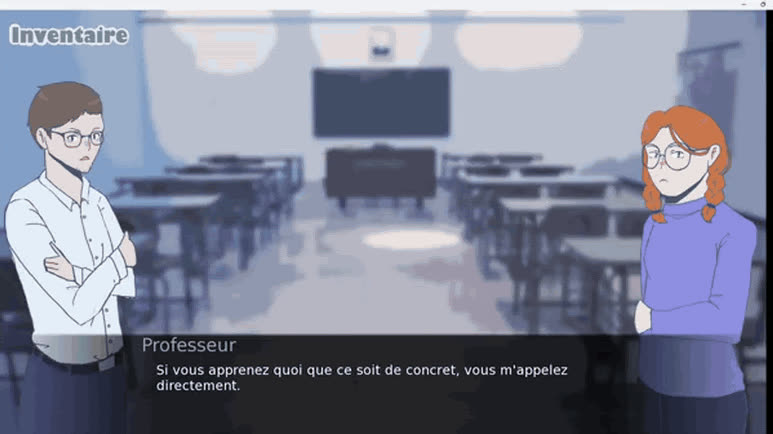
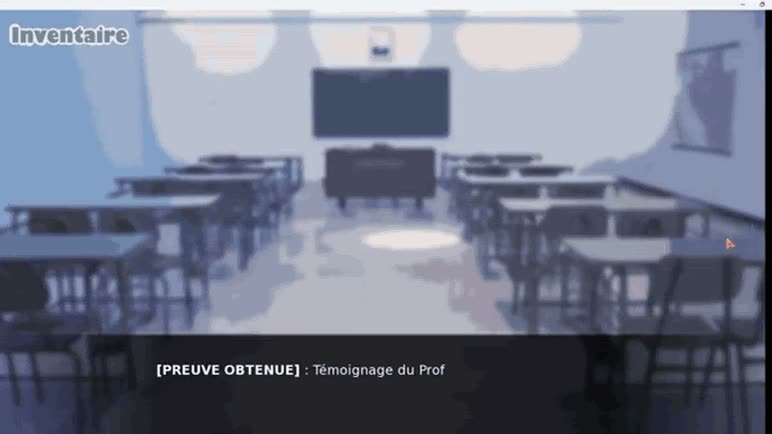
Cartes lisibles, boutons alignés, aperçu Push Push, état appuyé, accessibilité

Changed region(s): [[0.8083, 0.2396, 0.9948, 1.0], [0.0, 0.1797, 0.3109, 0.9885], [0.1865, 0.8387, 0.7461, 0.8986]]

diff --git a/index.html b/index.html
@@ -156,6 +156,7 @@ section[id], .dossier { scroll-margin-top: 72px; }
   cursor: pointer;
 }
 .btn:hover, .btn:focus-visible { transform: rotate(-3deg) scale(1.05); background: var(--red); color: var(--paper); }
+.btn:active { transform: rotate(-3deg) scale(.96); transition-duration: .05s; }
 .btn--red { --b: var(--red); --t: var(--paper); }
 .btn--red:hover, .btn--red:focus-visible { background: var(--paper); color: var(--ink); }
 .btn--ink { --b: var(--ink); --t: var(--paper); }
@@ -481,7 +482,7 @@ section[id], .dossier { scroll-margin-top: 72px; }
 .target .body { padding: .9rem 1.1rem 1.2rem; display: flex; flex-direction: column; gap: .3rem; }
 .target .body h3 { font-family: var(--display); font-size: 1.9rem; text-transform: uppercase; line-height: 1; }
 .target .body .eyebrow { color: var(--red-text); }
-.target .body .go { font-weight: 800; text-transform: uppercase; letter-spacing: .1em; font-size: .82rem; white-space: nowrap; color: var(--paper-dim); }
+.target .body .go { font-weight: 800; text-transform: uppercase; letter-spacing: .1em; font-size: .82rem; color: var(--paper-dim); }
 .target:hover .go, .target:focus-visible .go { color: var(--paper); }
 
 /* project dossier */
@@ -608,8 +609,9 @@ section[id], .dossier { scroll-margin-top: 72px; }
 .dialog p { color: var(--paper-dim); font-size: 1.02rem; }
 
 .links { display: flex; flex-wrap: wrap; gap: 12px; }
-/* Stay on the right even when a long title pushes the buttons to their own line. */
-.dossier-head .links { margin-left: auto; justify-content: flex-end; }
+/* the buttons always sit under the title, in the same place for every project */
+.dossier-head { flex-direction: column; align-items: flex-start; justify-content: flex-start; }
+.dossier-head .links { margin-left: 0; justify-content: flex-start; }
 
 .role-wrap { margin-top: clamp(26px, 4vw, 40px); }
 .role-title {
@@ -726,8 +728,8 @@ section[id], .dossier { scroll-margin-top: 72px; }
   overflow: hidden;
   margin-top: clamp(22px, 3.5vw, 32px);
   cursor: pointer;
-  -webkit-mask-image: linear-gradient(to bottom, rgba(0, 0, 0, .7) 20%, transparent);
-  mask-image: linear-gradient(to bottom, rgba(0, 0, 0, .7) 20%, transparent);
+  -webkit-mask-image: linear-gradient(to bottom, rgba(0, 0, 0, .9) 25%, transparent);
+  mask-image: linear-gradient(to bottom, rgba(0, 0, 0, .9) 25%, transparent);
   transition: -webkit-mask-image .2s ease, mask-image .2s ease;
 }
 .more-peek > * { pointer-events: none; }
@@ -863,7 +865,8 @@ img[data-zoom] { cursor: zoom-in; }
   display: flex;
   align-items: center;
   justify-content: center;
-  background: rgba(12, 11, 11, .25);
+  /* darken only behind the button, so the game keeps its colours at the edges */
+  background: radial-gradient(ellipse 60% 55% at center, rgba(12, 11, 11, .4), transparent);
   border: 0;
   cursor: pointer;
   padding: 0;
@@ -1269,6 +1272,7 @@ img[data-zoom] { cursor: zoom-in; }
   clip-path: polygon(0 0, 100% 10%, 94% 100%, 4% 90%);
 }
 .copy:hover, .copy:focus-visible { background: var(--red); color: var(--paper); }
+.copy:active, .play:active span, .more-btn:active .more-cta, .shot:active { scale: .95; }
 .sign { margin-top: 24px; text-align: right; font-family: "Special Elite", "Courier New", monospace; font-size: 1.15rem; color: var(--paper-dim); }
 .sign b { font-family: var(--display); font-weight: 400; color: var(--paper); font-size: 1.5rem; letter-spacing: .04em; }
 
@@ -1317,6 +1321,8 @@ footer .tyt span { color: var(--red); }
 
 /* ---------- Responsive ---------- */
 .top-cv, .top-contact, .lang { white-space: nowrap; flex: none; }
+.skip { position: absolute; left: -9999px; top: 8px; z-index: 100; background: var(--paper); color: var(--ink); font-weight: 800; padding: .5rem 1rem; }
+.skip:focus { left: 16px; }
 @media (max-width: 760px) {
   .topnav { display: none; }
   .top-contact { display: inline-flex; }
@@ -1364,6 +1370,18 @@ footer .tyt span { color: var(--red); }
   .showcase .shot:nth-child(3) { --r: 2deg; --sh: 6px 6px 0 var(--ink); }
   .showcase .shot:nth-child(4) { --r: -2.5deg; --sh: -6px 6px 0 var(--red-deep); }
 }
+@media (max-width: 900px) and (min-width: 621px) {
+  /* tablets: hobby cards go full width, photo on the left */
+  .hobbies { grid-template-columns: minmax(0, 1fr); }
+  .hobby { flex-direction: row; }
+  .hobby:nth-child(n) { transform: none; }
+  .hobby img { width: 38%; flex: none; aspect-ratio: auto; height: auto; min-height: 100%; }
+}
+@media (max-width: 480px) {
+  .stats { grid-template-columns: minmax(0, 1fr); gap: 4px; }
+  .stats dt { justify-self: start; }
+  .stats dd { margin-bottom: 8px; }
+}
 @media (max-width: 700px) {
   .hero-grid, .stats-grid, .coop-grid, .stat-top { grid-template-columns: minmax(0, 1fr); }
 }
@@ -1402,7 +1420,9 @@ footer .tyt span { color: var(--red); }
   .dossier-head { gap: 20px; }
   .dossier-head .genre { font-size: 1rem; margin-bottom: 1.1rem; text-wrap: balance; }
   .dossier-head h3 { font-size: 3.4rem; }
-  .dossier-head .links { margin-left: 0; justify-content: flex-start; }
+  .dossier-head .links { margin-left: 0; display: grid; grid-template-columns: repeat(2, minmax(0, 1fr)); gap: 10px; width: 100%; }
+  .dossier-head .links .btn { justify-content: center; font-size: 1.12rem; padding-inline: .6rem; gap: .4rem; }
+  .dossier-head .links .btn--red, .dossier-head .links .btn:only-child, .dossier-head .links .btn--red + .btn:last-child { grid-column: 1 / -1; }
   /* the path stacks: the arrow points down to the next step */
   .path { flex-direction: column; align-items: flex-start; gap: 6px; }
   .path .arrow { transform: rotate(90deg); margin-left: 1.6rem; line-height: 1; }
@@ -1423,6 +1443,7 @@ footer .tyt span { color: var(--red); }
 
 
 <!-- ================= TOP BAR ================= -->
+<a class="skip" href="#missions">Aller aux projets</a>
 <header class="topbar">
   <div class="wrap">
     <a class="brand" href="#top"><b>Tiago Del Nery-Fontaine</b><small>Game Designer, en recherche de stage</small></a>
@@ -1438,6 +1459,7 @@ footer .tyt span { color: var(--red); }
   </div>
 </header>
 
+<main id="contenu">
 <!-- ================= HERO ================= -->
 <section class="hero" id="top">
   <div class="wrap hero-grid">
@@ -1464,7 +1486,7 @@ footer .tyt span { color: var(--red); }
     <div class="showcase" aria-label="Aperçu des projets">
       <a class="shot p0" href="#push-push"><img src="assets/push-1.jpg" alt="Capture de Push Push"><span>Push Push</span></a>
       <a class="shot p1" href="#fatal-boing"><img src="assets/fatal-1.jpg" alt="Capture de Fatal Boing"><span>Fatal Boing !</span></a>
-      <a class="shot p2" href="#amy"><img src="assets/amy-inventaire.jpg" alt="Capture de Amy"><span>Amy</span></a>
+      <a class="shot p2" href="#amy"><img src="assets/amy-inventaire.jpg" alt="Capture d'Amy"><span>Amy</span></a>
       <a class="shot p3" href="#lumis-jar"><img src="assets/lumi-miniature.jpg" data-src-en="assets/lumi-miniature-en.jpg" alt="Capture de Lumi's Jar"><span>Lumi’s Jar</span></a>
     </div>
   </div>
@@ -1498,7 +1520,7 @@ footer .tyt span { color: var(--red); }
         <div class="body">
           <span class="eyebrow">Puzzle platformer 2,5D</span>
           <h3>Push Push</h3>
-          <span class="go">Projet d'équipe, level design &amp; 3C ▸</span>
+          <span class="go">Projet d'équipe, level design &amp; 3C&nbsp;▸</span>
         </div>
       </a>
       <a class="target" href="#fatal-boing">
@@ -1506,15 +1528,15 @@ footer .tyt span { color: var(--red); }
         <div class="body">
           <span class="eyebrow">Party game à un bouton</span>
           <h3>Fatal Boing !</h3>
-          <span class="go">Projet solo, design &amp; dev ▸</span>
+          <span class="go">Projet solo, design &amp; dev&nbsp;▸</span>
         </div>
       </a>
       <a class="target" href="#amy">
-        <div class="logo"><img src="assets/amy-logo.jpg" alt="Logo de Amy"></div>
+        <div class="logo"><img src="assets/amy-logo.jpg" alt="Logo d'Amy"></div>
         <div class="body">
           <span class="eyebrow">Visual novel d'enquête</span>
           <h3>Amy</h3>
-          <span class="go">Narrative Designer et Game Designer ▸</span>
+          <span class="go">Narrative Designer et Game Designer&nbsp;▸</span>
         </div>
       </a>
       <a class="target" href="#lumis-jar">
@@ -1522,7 +1544,7 @@ footer .tyt span { color: var(--red); }
         <div class="body">
           <span class="eyebrow">Idle game de bureau</span>
           <h3>Lumi’s Jar</h3>
-          <span class="go">Projet perso, concept &amp; game design ▸</span>
+          <span class="go">Projet perso, concept &amp; game design&nbsp;▸</span>
         </div>
       </a>
     </div>
@@ -1581,7 +1603,7 @@ footer .tyt span { color: var(--red); }
           <figure class="ld-shot"><span class="step-lbl">Version finale</span><img src="assets/ld-m2-n3-final.jpg" alt="Niveau 3 du monde 2 dans la version finale" loading="lazy" data-zoom></figure>
           </div>
         </div>
-        <div class="ld-level">
+        <div class="ld-level" data-peek>
           <h5>Monde 3, niveau 1</h5>
           <div class="ld-steps">
           <figure class="sketch"><span class="step-lbl">Croquis papier</span><img src="assets/ld-n1-croquis.jpg" alt="Croquis papier du niveau 1 du monde 3" loading="lazy" data-zoom></figure>
@@ -2158,6 +2180,8 @@ footer .tyt span { color: var(--red); }
   </div>
 </section>
 
+</main>
+
 <div class="lightbox" id="lightbox" hidden>
   <button class="lightbox-close" id="lightbox-close" type="button">Fermer ✕</button>
   <img id="lightbox-img" alt="">
@@ -2174,6 +2198,7 @@ footer .tyt span { color: var(--red); }
 "Tiago Del Nery-Fontaine": "Tiago Del Nery-Fontaine",
 "Game Designer, en recherche de stage": "Game Designer, looking for an internship",
 "Projets": "Projects",
+"Aller aux projets": "Skip to projects",
 "Compétences": "Skills",
 "À propos": "About",
 "Contact": "Contact",
@@ -2209,13 +2234,13 @@ footer .tyt span { color: var(--red); }
 "Calling card et CV": "Calling card &amp; CV",
 "Quatre projets réalisés en 2026 : un puzzle platformer, un party game à un bouton, un visual novel d'enquête et un petit jeu qui vit sur le bureau.": "Four projects made in 2026: a puzzle platformer, a one-button party game, an investigation visual novel and a tiny game that lives on your desktop.",
 "Puzzle platformer 2,5D": "2.5D puzzle platformer",
-"Projet d'équipe, level design & 3C ▸": "Team project, level design &amp; 3C ▸",
+"Projet d'équipe, level design & 3C ▸": "Team project, level design &amp; 3C&nbsp;▸",
 "Party game à un bouton": "One-button party game",
-"Projet solo, design & dev ▸": "Solo project, design &amp; dev ▸",
+"Projet solo, design & dev ▸": "Solo project, design &amp; dev&nbsp;▸",
 "Visual novel d'enquête": "Investigation visual novel",
-"Narrative Designer et Game Designer ▸": "Narrative Designer &amp; Game Designer ▸",
+"Narrative Designer et Game Designer ▸": "Narrative Designer &amp; Game Designer&nbsp;▸",
 "Idle game de bureau": "Desktop idle game",
-"Projet perso, concept & game design ▸": "Personal project, concept &amp; game design ▸",
+"Projet perso, concept & game design ▸": "Personal project, concept &amp; game design&nbsp;▸",
 "Un puzzle platformer en 2,5D": "A 2.5D puzzle platformer",
 "Trailer ▸": "Trailer <span class=\"arr\">▸<\/span>",
 "Walkthrough ▸": "Walkthrough <span class=\"arr\">▸<\/span>",
@@ -2481,12 +2506,12 @@ footer .tyt span { color: var(--red); }
 "Aperçu des projets": "Project preview",
 "Capture de Push Push": "Push Push screenshot",
 "Capture de Fatal Boing": "Fatal Boing screenshot",
-"Capture de Amy": "Amy screenshot",
+"Capture d'Amy": "Amy screenshot",
 "Capture de Lumi's Jar": "Lumi's Jar screenshot",
 "Sections": "Sections",
 "Logo de Push Push": "Push Push logo",
 "Logo de Fatal Boing": "Fatal Boing logo",
-"Logo de Amy": "Amy logo",
+"Logo d'Amy": "Amy logo",
 "Logo de Lumi's Jar": "Lumi's Jar logo",
 "Regarder le trailer": "Watch the trailer",
 "Niveau 5 : le personnage saute, les blocs basculent et un bloc surgit pour l'écraser": "Level 5: the character jumps, the blocks flip and one shoots out to crush them",
@@ -2895,8 +2920,9 @@ footer .tyt span { color: var(--red); }
       peek.addEventListener('click', function () { setMore(btn, true); });
       btn.parentNode.insertBefore(peek, btn);
     }
+    // a block marked data-peek wins; otherwise the block of the first image
     var img = panel.querySelector('img');
-    var block = img && img.closest('.role-wrap > *');
+    var block = panel.querySelector('[data-peek]') || (img && img.closest('.role-wrap > *'));
     var copy;
     if (block) {
       var wrap = block.parentNode;
